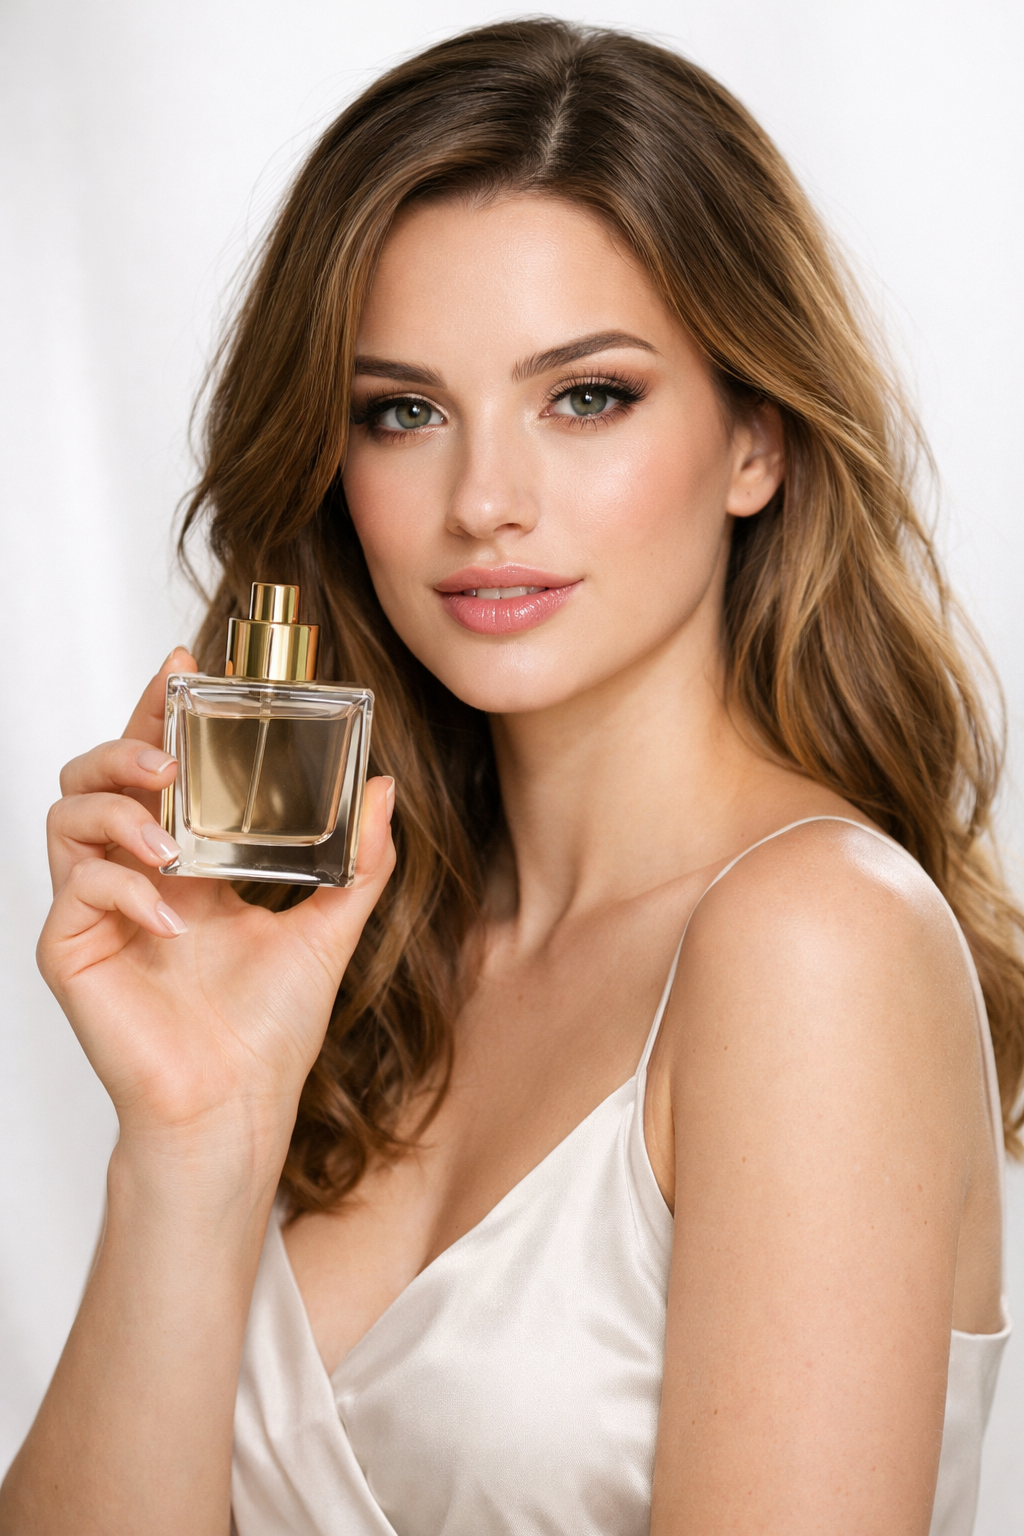
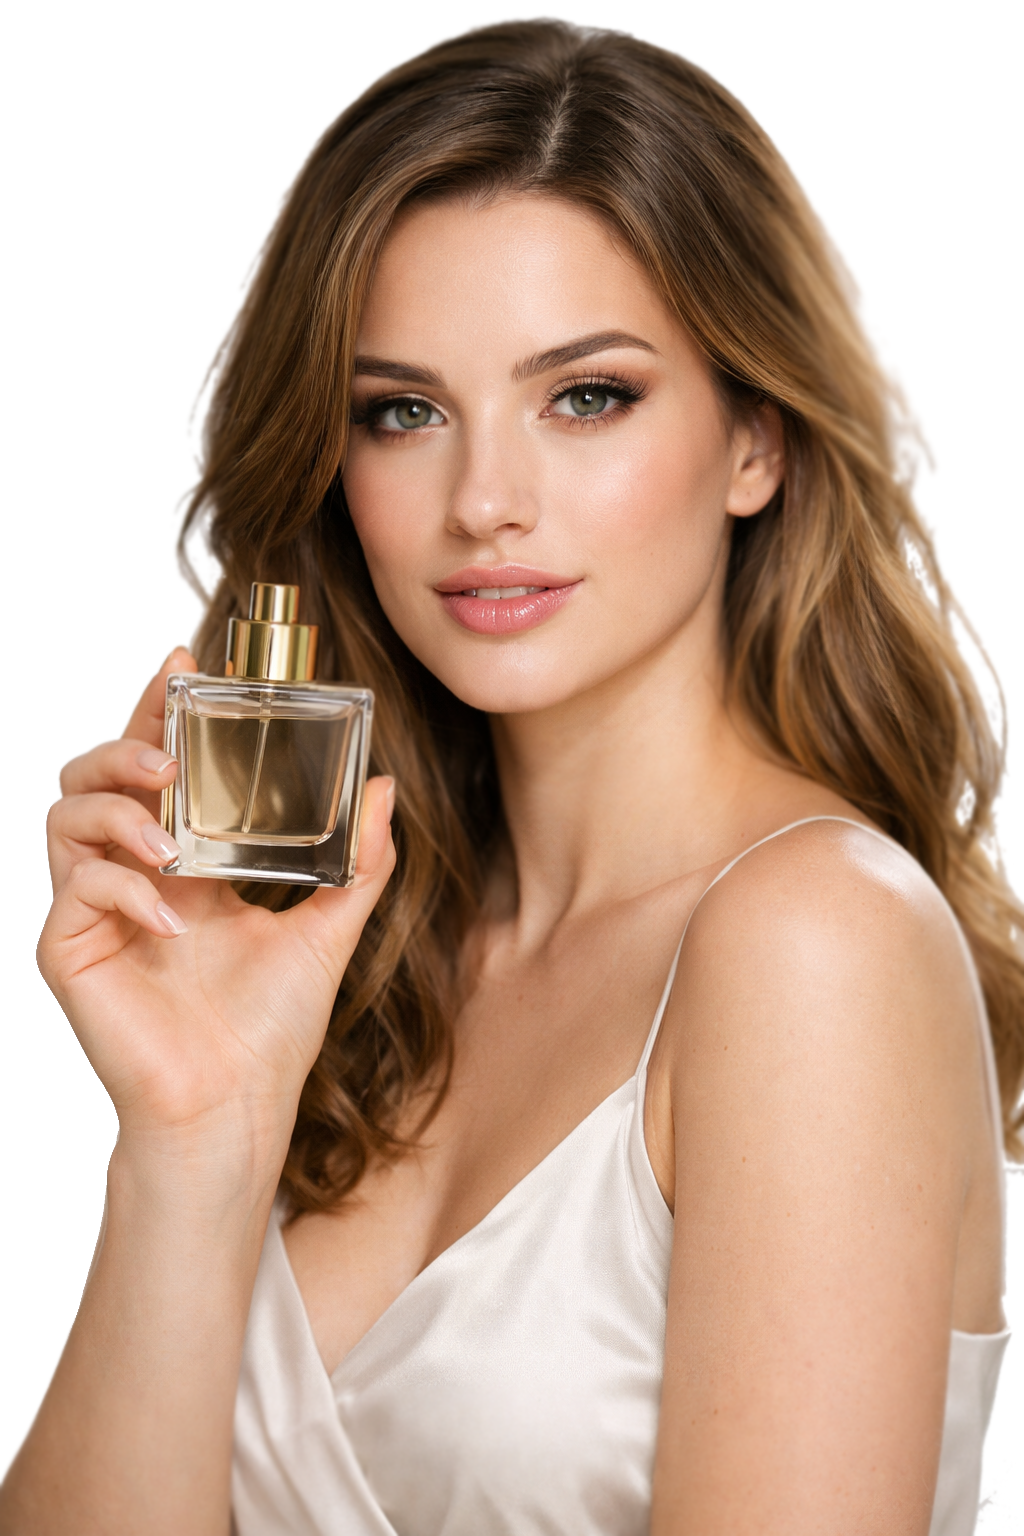
SER-45 Háttérkép beillesztése, alap elrendezés megcsinálva.

diff --git a/Frontend/src/app/components/home/home.component.scss b/Frontend/src/app/components/home/home.component.scss
@@ -1,13 +1,11 @@
 .home {
-  height: 100vh;
-  background: url('/assets/gold-marble.jpg') center/cover no-repeat;
-  background-color: #000;
-  color: white;
+  background: url('../../../../public/gold_marble.png') ;
   font-family: 'Poppins', sans-serif;
-  position: relative;
-  overflow: hidden;
+  background-size: cover;
+  margin: 0 auto;
+  padding: 0 auto;
+  height: 97vh;
 }
-
 /* NAVBAR */
 
 .navbar {
@@ -43,7 +41,6 @@
   align-items: center;
   justify-content: space-between;
   padding: 0 80px;
-  height: 100%;
 }
 
 /* BRAND TITLE */
@@ -95,10 +92,8 @@
   position: relative;
   z-index: 2;
 
-  img {
-    height: 70vh;
+  .womanpng {
     position: relative;
-    top: 150px;
     object-fit: contain;
   }
 }

diff --git a/Frontend/src/app/components/home/home.component.html b/Frontend/src/app/components/home/home.component.html
@@ -30,7 +30,7 @@
     <!-- CENTER IMAGE -->
     <div class="hero-center">
       <!-- PICTURE -->
-      <img src="./ServineLandingpagewoman.png" alt="Perfume Model">
+      <img class="womanpng" style="height: 600px; top: 340px;" src="./ServineLandingpagewoman.png" alt="Perfume Model">
     </div>
 
     <!-- RIGHT SLIDER PLACEHOLDER -->
